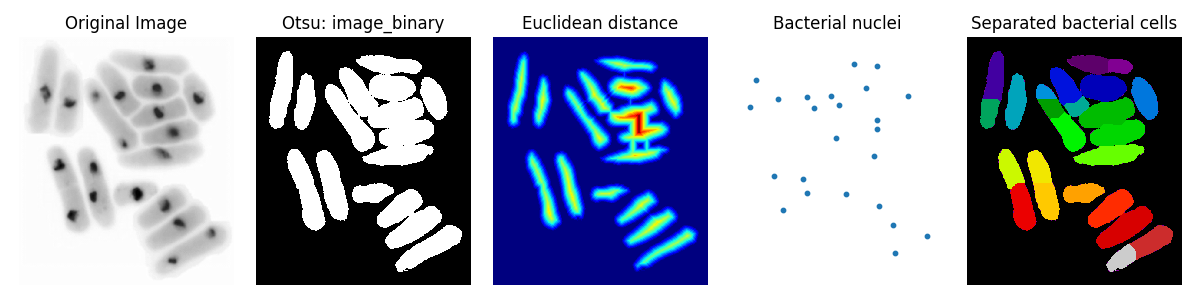
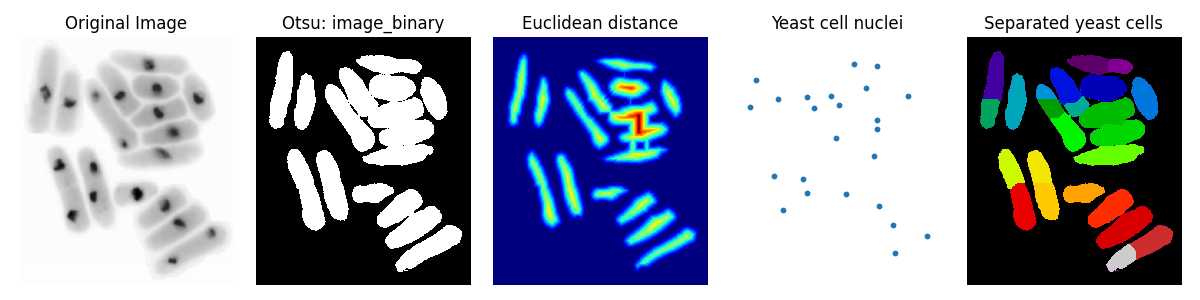
Lab 8. Finished.

Changed region(s): [[0.8017, 0.06, 0.9867, 0.12], [0.6475, 0.06, 0.7708, 0.12]]

diff --git a/Lab 8/Lab 8 Thresholding/otsu_solution.py b/Lab 8/Lab 8 Thresholding/otsu_solution.py
@@ -1,0 +1,157 @@
+import math
+from statistics import variance
+
+import matplotlib.pyplot as plt
+import numpy as np
+from PIL import Image
+
+
+def open_image(image):
+    image = plt.imread(image)
+    image = np.array(image)
+    return image
+
+def display_image(image):
+    plt.imshow(image, cmap='gray')
+    plt.title('Original image')
+    plt.show()
+    return image
+
+def basic_thresholding(image, threshold):
+    # Make all pixels < threshold black
+    bin_img = (image > threshold)
+
+    return bin_img, threshold
+
+
+def make_histogram(image):
+    # Create 1D array
+    image_1D = image.ravel()
+
+    # Calculate the basic threshold
+    # <-- your input
+    n_bins = 128
+    plt.hist(image_1D, bins=n_bins)
+    plt.title('Original image histogram')
+    plt.show()
+
+    # Pixel intensities and bin borders / edges
+    counts, edges = np.histogram(image, bins=n_bins)
+
+    # Calculate the centers of the bin
+    bin_centers = edges[:-1] + np.diff(edges) / 2.0
+
+    return n_bins, counts, bin_centers
+
+
+def global_variance(counts, image):
+    p = counts / image.size
+    i = np.arange(0, len(counts))
+    mg = (p * i).sum()
+    global_variance_ = ((i - mg) ** 2 * p).sum()
+    return global_variance_, mg, p, i
+
+def between_class_variance(global_variance_, mg, p, i, counts):
+    mu_res = []
+    between_class_variance_ = []
+    e = 10 ** -8
+
+    for T in range(0, len(counts)):
+        p1 = p[:T].sum()
+        mk = (i[:T] * p[:T]).sum()
+        if p1 == 0:
+            p1 += e
+        if p1 == 1:
+            p1 -= e
+        between = ((p1 * mg - mk) ** 2) / (p1 * (1 - p1))
+        mu = between / global_variance_
+        mu_res.append(mu)
+        between_class_variance_.append(between)
+    return between_class_variance_
+
+def ssd(counts, centers):
+    # Sum of squared deviations from the left and right mean
+    n = np.sum(counts)
+    # Mean, µ , mu
+    mu = np.sum(centers * counts) / n
+    return np.sum(counts * ((centers - mu) ** 2))
+
+
+def my_otsu(image, n_bins, counts, bin_centers):
+    # Sum of the squared deviations from the left and right means
+    total_ssds = []
+    for bin_no in range(1, n_bins):
+        # SSD k left
+        left_ssd = ssd(counts[:bin_no], bin_centers[:bin_no])
+        # SSD k right
+        right_ssd = ssd(counts[bin_no:], bin_centers[bin_no:])
+        # SSD k total
+        total_ssds.append(left_ssd + right_ssd)
+    # Threshold that minimizes the SSD k total in the bin z
+    # Returns the index, i.e. the bin of the minimum value within the array
+    z = np.argmin(total_ssds)
+    print('The threshold value is in the middle of bin: ', z)
+    # Otsu threshold within the bin z
+    threshold = bin_centers[z]
+    print(f'The Otsu threshold value in the middle of bin {z} is {threshold}.')
+    # Returns boolean values for pixels that are larger than the threshold
+    # Make all pixels >= threshold black
+    binary_image = image >= threshold
+
+    from skimage.filters import threshold_otsu
+    print("Otsu's Method: Output Threshold via skimage", threshold_otsu(image, 128))
+
+    return binary_image, threshold
+    # return binary_image, between_class_variance, threshold, separability
+
+def main():
+    # Choose one of the images below
+    image = "thGonz.tif"
+    # image = "binary_test_image.png"
+
+    # Specify a threshold 0-255 for the basic threshold method
+    # Calculated for binary_test_image.png: 0.56640625
+    # Calculated for thGonz - tif: 199.27734375
+    threshold_basic_method = 199.27734375
+
+    image = open_image(image)
+    display_image(image)
+
+    if len(image.shape) == 3:
+        image = image[:, :, 0]
+
+    n_bins, counts, bin_centers = make_histogram(image)
+
+    # Basic thresholding method
+    binary_image, threshold = basic_thresholding(image, threshold_basic_method )
+    plt.imshow(binary_image, cmap="gray")
+    plt.title("Basic Thresholding: Output Threshold: " + str(threshold_basic_method))
+    plt.show()
+
+
+    # Otsu thresholding method
+    binary_image, threshold = my_otsu(image, n_bins, counts, bin_centers)
+    plt.title("Otsu's Method: Output Threshold: " + str(threshold))
+    plt.imshow(binary_image, cmap="gray")
+    plt.show()
+
+    # Calculate global_variance
+    global_variance_, mg, p, i = global_variance(counts, image)
+    print('Global variance: ', global_variance_)
+
+    # Calculate the in between class variance
+    between_class_variance_ = between_class_variance(global_variance_, mg, p, i, counts)
+    between_class_variance_max = np.array(between_class_variance_).argmax()
+    print(f'In between class variance is maximal in bin {between_class_variance_max}')
+    plt.plot(between_class_variance_)
+    plt.title(f'In between class variance is maximal in bin {between_class_variance_max}')
+    plt.show()
+
+    # Calculate the separability
+    separability = between_class_variance_max / global_variance_
+    print('Separability', separability)
+
+
+
+if __name__ == "__main__":
+    main()

diff --git a/Lab 8/Lab 8 Watershed/watersheds_solution.py b/Lab 8/Lab 8 Watershed/watersheds_solution.py
@@ -95,9 +95,9 @@ def main():
     ax[2].imshow(imageDistance / np.amax(imageDistance), cmap=plt.cm.jet, interpolation='none')
     ax[2].set_title('Euclidean distance')
     ax[3].scatter(peakCoords[:, 1].reshape((-1,)), peakCoords[:, 0].reshape((-1,)), s=10, marker='o')
-    ax[3].set_title('Bacterial nuclei')
+    ax[3].set_title('Yeast cell nuclei')
     ax[4].imshow(labels, cmap=plt.cm.nipy_spectral, interpolation='none')
-    ax[4].set_title('Separated bacterial cells')
+    ax[4].set_title('Separated yeast cells')
 
     for a in ax:
         a.set_axis_off()
